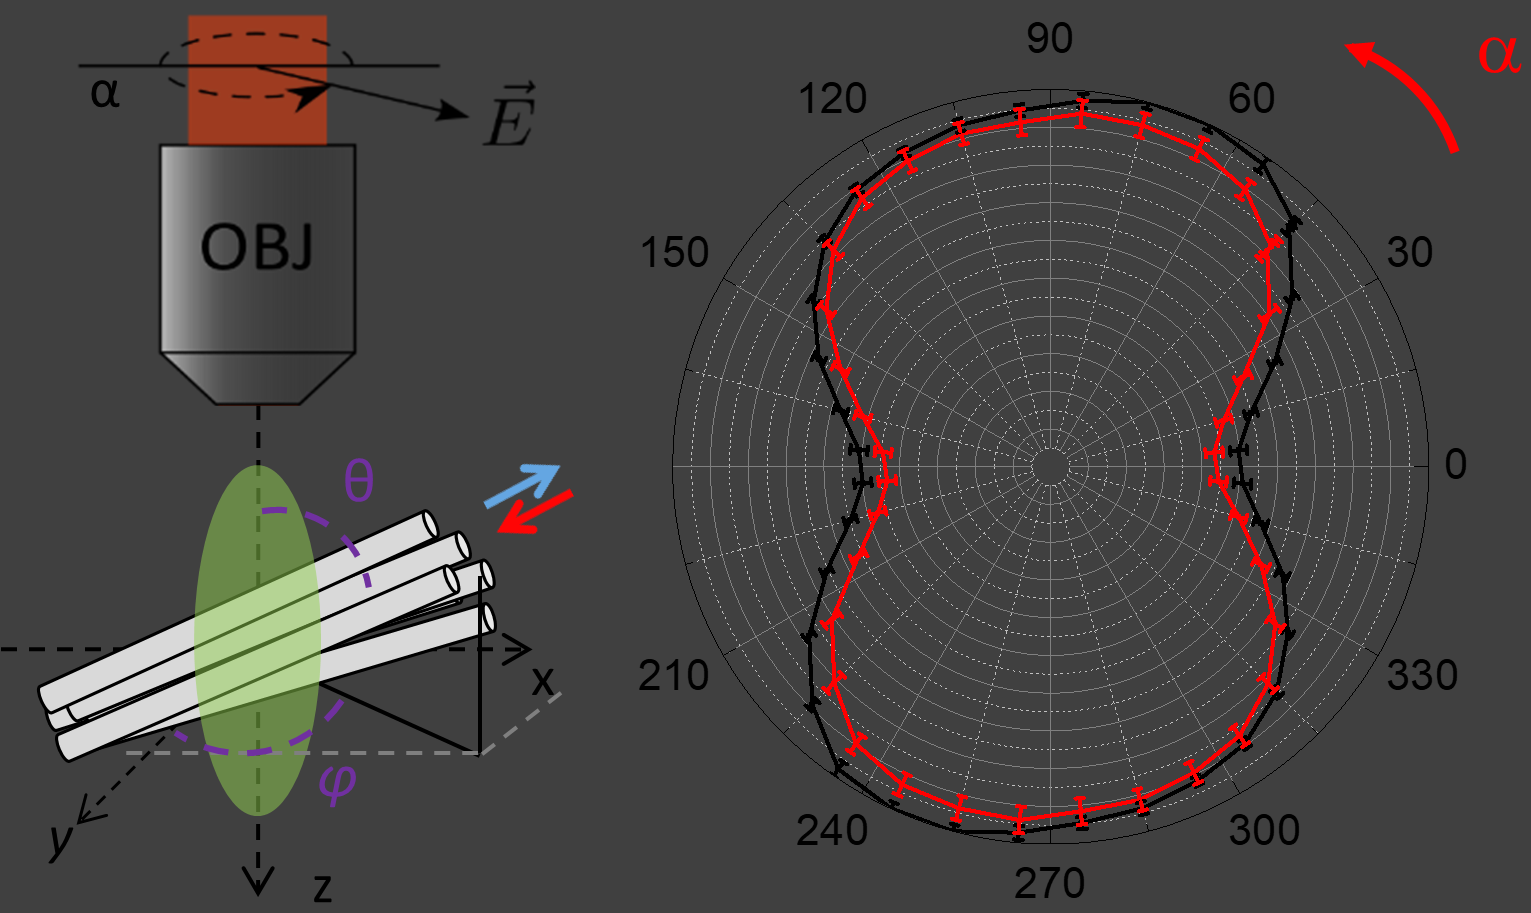
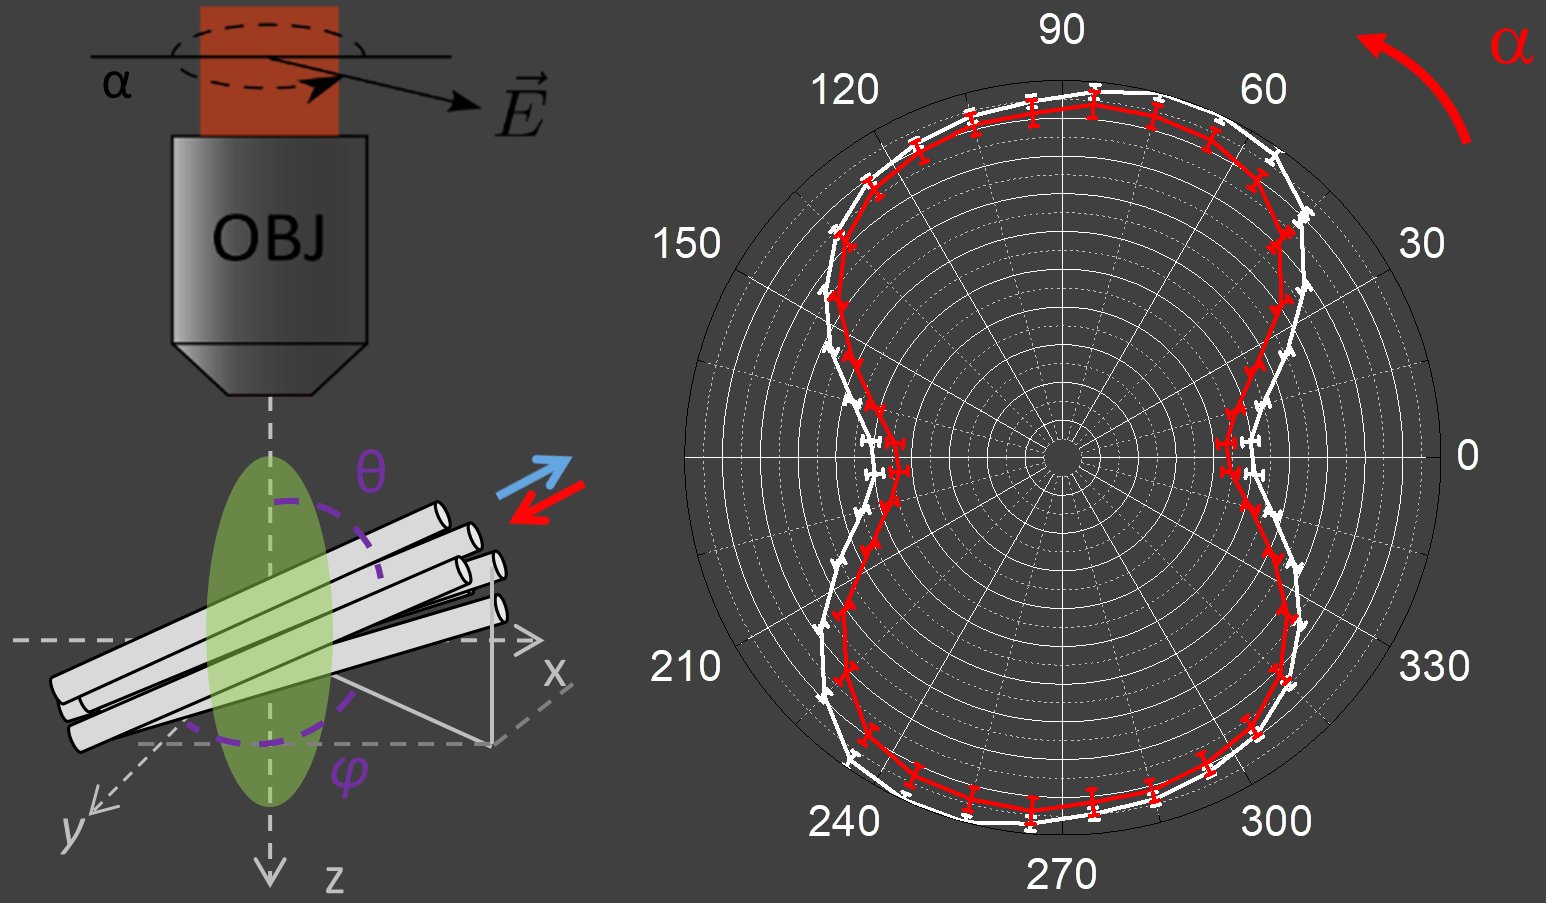
Projets PSF & I-SHG: refs Torok 1995 / Yazdanfar 2004 / Bancelin 2017, legendes justifiees, positions
- PSF: retire ref STED, ajoute Torok 1995 (simulations); Fig1 image-gauche/leg-droite, Fig2 image-droite/leg-gauche
- I-SHG: Fig1 rechargee + leg justifiee; ref premier papier I-SHG (Yazdanfar 2004); Fig2 72% image-droite/leg-gauche; Fig3 pleine largeur + ref Bancelin 2017

diff --git a/_projects/6_psf_simulations.md b/_projects/6_psf_simulations.md
@@ -6,14 +6,24 @@ importance: 2
 category: Past projects
 ---
 
-In STED microscopy [(Hell & Wichmann, 1994)](https://doi.org/10.1364/OL.19.000780), resolution is created by a doughnut-shaped depletion beam that switches off fluorescence everywhere except at its central zero. The quality of that zero — and therefore the resolution — depends critically on the exact shape of the point-spread function (PSF), which is extremely sensitive to the beam polarization, to the objective and to the optical properties of the sample. Being able to **simulate the vectorial PSF** realistically is thus essential to design, align and interpret a STED microscope. To this end we developed **[FASER](https://github.com/jhnnsrs/faser)**, an open-source tool that computes the focal field for arbitrary polarization states and refractive-index conditions, with an interactive Napari interface for single or batch simulations.
+In STED microscopy, resolution is created by a doughnut-shaped depletion beam that switches off fluorescence everywhere except at its central zero. The quality of that zero — and therefore the resolution — depends critically on the exact shape of the point-spread function (PSF), which is extremely sensitive to the beam polarization, to the objective and to the optical properties of the sample. Being able to **simulate the vectorial PSF** realistically [(Török et al., 1995)](https://doi.org/10.1364/JOSAA.12.000325) is thus essential to design, align and interpret a STED microscope. To this end we developed **[FASER](https://github.com/jhnnsrs/faser)**, an open-source tool that computes the focal field for arbitrary polarization states and refractive-index conditions, with an interactive Napari interface for single or batch simulations.
 
-<div class="proj-figcenter" style="width: 60%;">
-  {% include figure.liquid loading="eager" path="assets/img/psf_fig1.png" class="img-fluid rounded z-depth-1" caption="FASER: (a) vectorial focusing model accounting for polarization and refractive-index mismatch, (b) the Napari-based interface, and (c) simulated PSFs (xy and xz) for different polarization states and degrees of depolarization." %}
+<div class="proj-figrow">
+  <div style="flex: 0 0 60%; max-width: 60%;">
+    {% include figure.liquid loading="eager" path="assets/img/psf_fig1.png" class="img-fluid rounded z-depth-1" %}
+  </div>
+  <div class="proj-cap">
+    <p class="caption" style="text-align: justify;">FASER: (a) vectorial focusing model accounting for polarization and refractive-index mismatch, (b) the Napari-based interface, and (c) simulated PSFs (xy and xz) for different polarization states and degrees of depolarization.</p>
+  </div>
 </div>
 
 Deep inside tissue, optical aberrations distort the doughnut, fill in its central zero and quickly destroy the STED resolution. By modelling how each aberration (defocus, astigmatism, coma, spherical…) deforms the PSF, the dominant, depth-dependent terms can be identified and pre-compensated with **adaptive optics** [(Booth, 2014)](https://doi.org/10.1038/lsa.2014.46). Correcting the leading aberration as a function of depth restores the depletion zero, recovers signal and preserves nanoscale resolution much deeper into living brain tissue.
 
-<div class="proj-figcenter" style="width: 60%;">
-  {% include figure.liquid path="assets/img/psf_fig2.png" class="img-fluid rounded z-depth-1" caption="Effect of aberrations on the STED PSF (a–b) and depth-dependent aberration correction: the optimal correction varies linearly with depth (c), restoring signal (d) and preserving resolution (mean spine-neck diameter) far deeper than the uncorrected case (e)." %}
+<div class="proj-figrow">
+  <div class="proj-cap">
+    <p class="caption" style="text-align: justify;">Effect of aberrations on the STED PSF (a–b) and depth-dependent aberration correction: the optimal correction varies linearly with depth (c), restoring signal (d) and preserving resolution (mean spine-neck diameter) far deeper than the uncorrected case (e).</p>
+  </div>
+  <div style="flex: 0 0 60%; max-width: 60%;">
+    {% include figure.liquid path="assets/img/psf_fig2.png" class="img-fluid rounded z-depth-1" %}
+  </div>
 </div>

diff --git a/_projects/7_ishg.md b/_projects/7_ishg.md
@@ -13,18 +13,21 @@ Standard SHG microscopy shows *where* fibrillar collagen is, but two complementa
     {% include figure.liquid loading="eager" path="assets/img/ishg_fig1.png" class="img-fluid rounded z-depth-1" %}
   </div>
   <div class="proj-cap">
-    <p class="caption">Polarization-resolved SHG: the signal is recorded while rotating the incident polarization (angle α). The anisotropy of the polar response encodes the orientation and alignment of the collagen fibrils.</p>
+    <p class="caption" style="text-align: justify;">Polarization-resolved SHG: the signal is recorded while rotating the incident polarization (angle α). The anisotropy of the polar response encodes the orientation and alignment of the collagen fibrils.</p>
   </div>
 </div>
 
-**Interferometric SHG (I-SHG)** accesses this phase by letting the SHG from the sample interfere with a reference second-harmonic field generated by a quartz plate; a glass plate finely tunes the relative delay, and the interference fringes recorded while scanning the delay give the local SHG phase pixel by pixel. Applied to **cartilage**, I-SHG resolves domains of opposite collagen polarity that appear as a clear π phase shift in the phase map — and as two peaks in the phase histogram — information that is completely hidden in the intensity image.
+**Interferometric SHG (I-SHG)** [(Yazdanfar et al., 2004)](https://doi.org/10.1364/OPEX.12.002739) accesses this phase by letting the SHG from the sample interfere with a reference second-harmonic field generated by a quartz plate; a glass plate finely tunes the relative delay, and the interference fringes recorded while scanning the delay give the local SHG phase pixel by pixel. Applied to **cartilage**, I-SHG resolves domains of opposite collagen polarity that appear as a clear π phase shift in the phase map — and as two peaks in the phase histogram — information that is completely hidden in the intensity image.
 
-<div class="proj-figcenter" style="width: 60%;">
-  {% include figure.liquid path="assets/img/ishg_fig2.png" class="img-fluid rounded z-depth-1" caption="I-SHG setup (a): the sample SHG interferes with the second harmonic from a quartz plate, the delay being tuned with a glass plate. The interference fringes (b) give the local phase; in cartilage (c–d) opposite collagen polarities show up as a π phase shift between domains." %}
+<div class="proj-figrow">
+  <div class="proj-cap">
+    <p class="caption" style="text-align: justify;">I-SHG setup (a): the sample SHG interferes with the second harmonic from a quartz plate, the delay being tuned with a glass plate. The interference fringes (b) give the local phase; in cartilage (c–d) opposite collagen polarities show up as a π phase shift between domains.</p>
+  </div>
+  <div style="flex: 0 0 72%; max-width: 72%;">
+    {% include figure.liquid path="assets/img/ishg_fig2.png" class="img-fluid rounded z-depth-1" %}
+  </div>
 </div>
 
 The same principle extends beyond collagen: microtubules are also non-centrosymmetric and SHG-active. Using I-SHG on **mitotic spindles in living embryos**, we could follow the polarity of microtubule bundles in real time during cell division, distinguishing the two antiparallel halves of the spindle through their relative phase.
 
-<div class="proj-figcenter" style="width: 60%;">
-  {% include figure.liquid path="assets/img/ishg_fig3.png" class="img-fluid rounded z-depth-1" caption="I-SHG of mitotic spindles in a living embryo: SHG intensity and phase maps over time reveal the polarity of microtubule bundles during cell division." %}
-</div>
+{% include figure.liquid path="assets/img/ishg_fig3.png" class="img-fluid rounded z-depth-1" caption='I-SHG of mitotic spindles in a living embryo: SHG intensity and phase maps over time reveal the polarity of microtubule bundles during cell division (<a href="https://doi.org/10.1038/s41598-[phone redacted]">Bancelin et al., 2017</a>).' %}